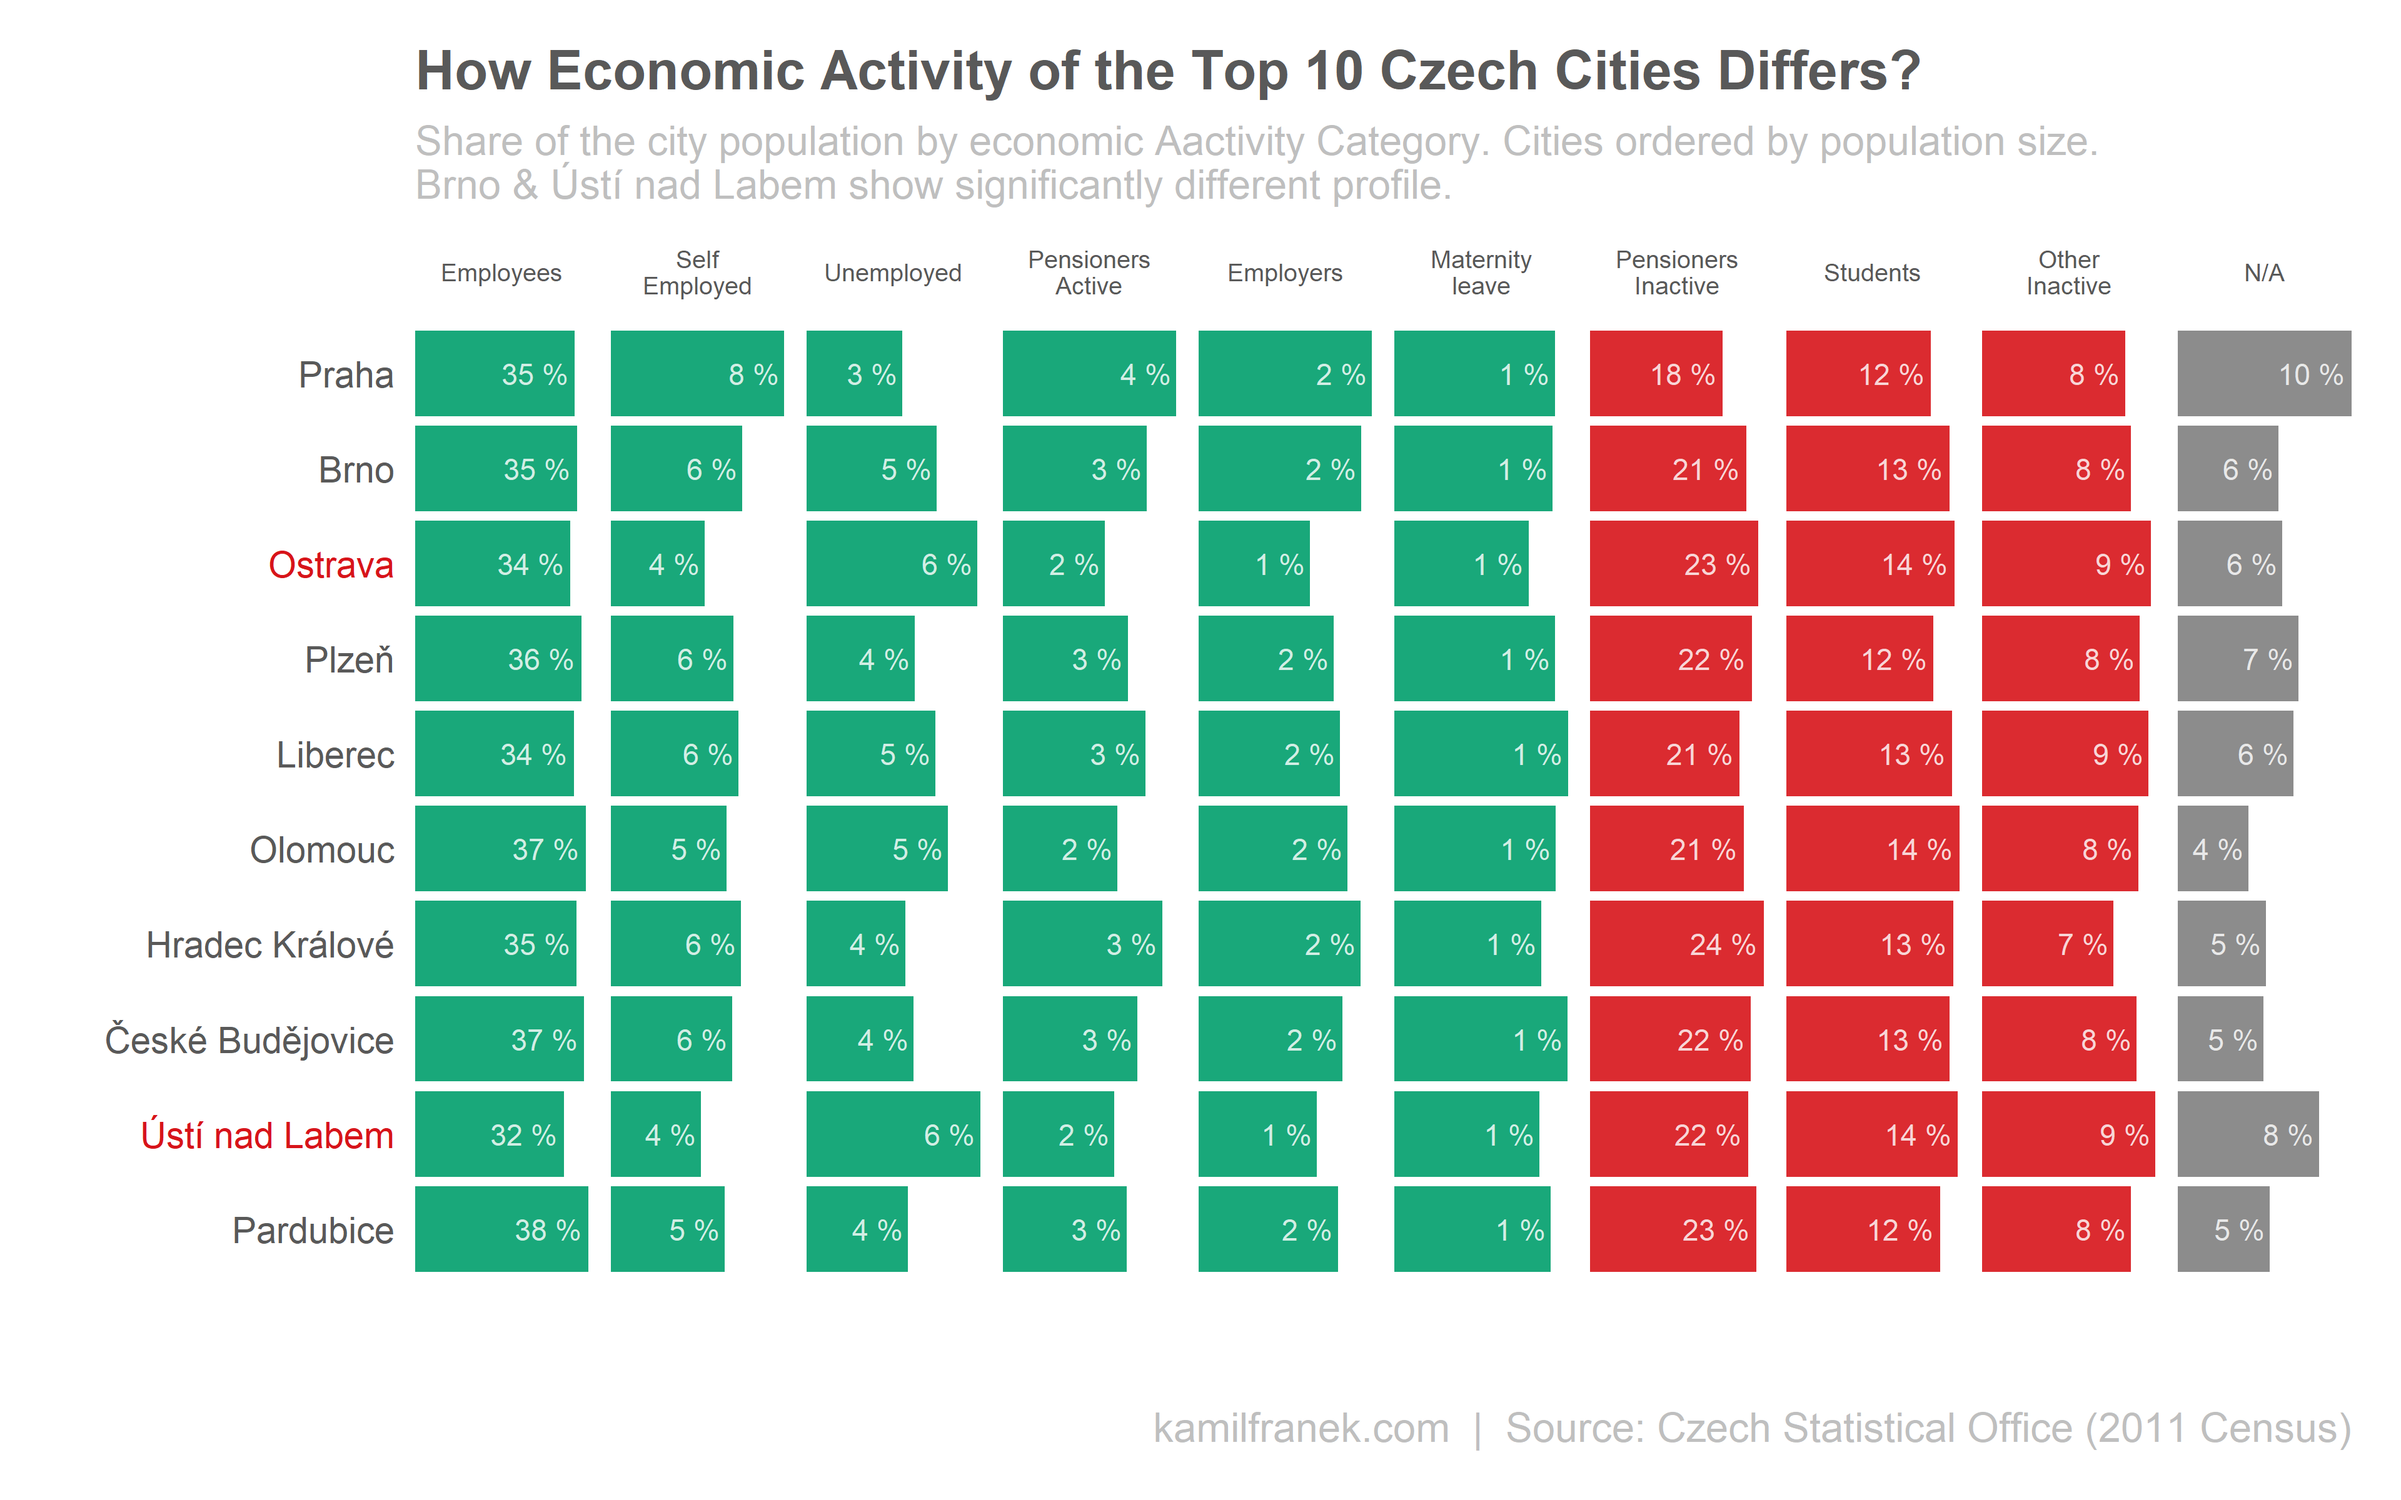
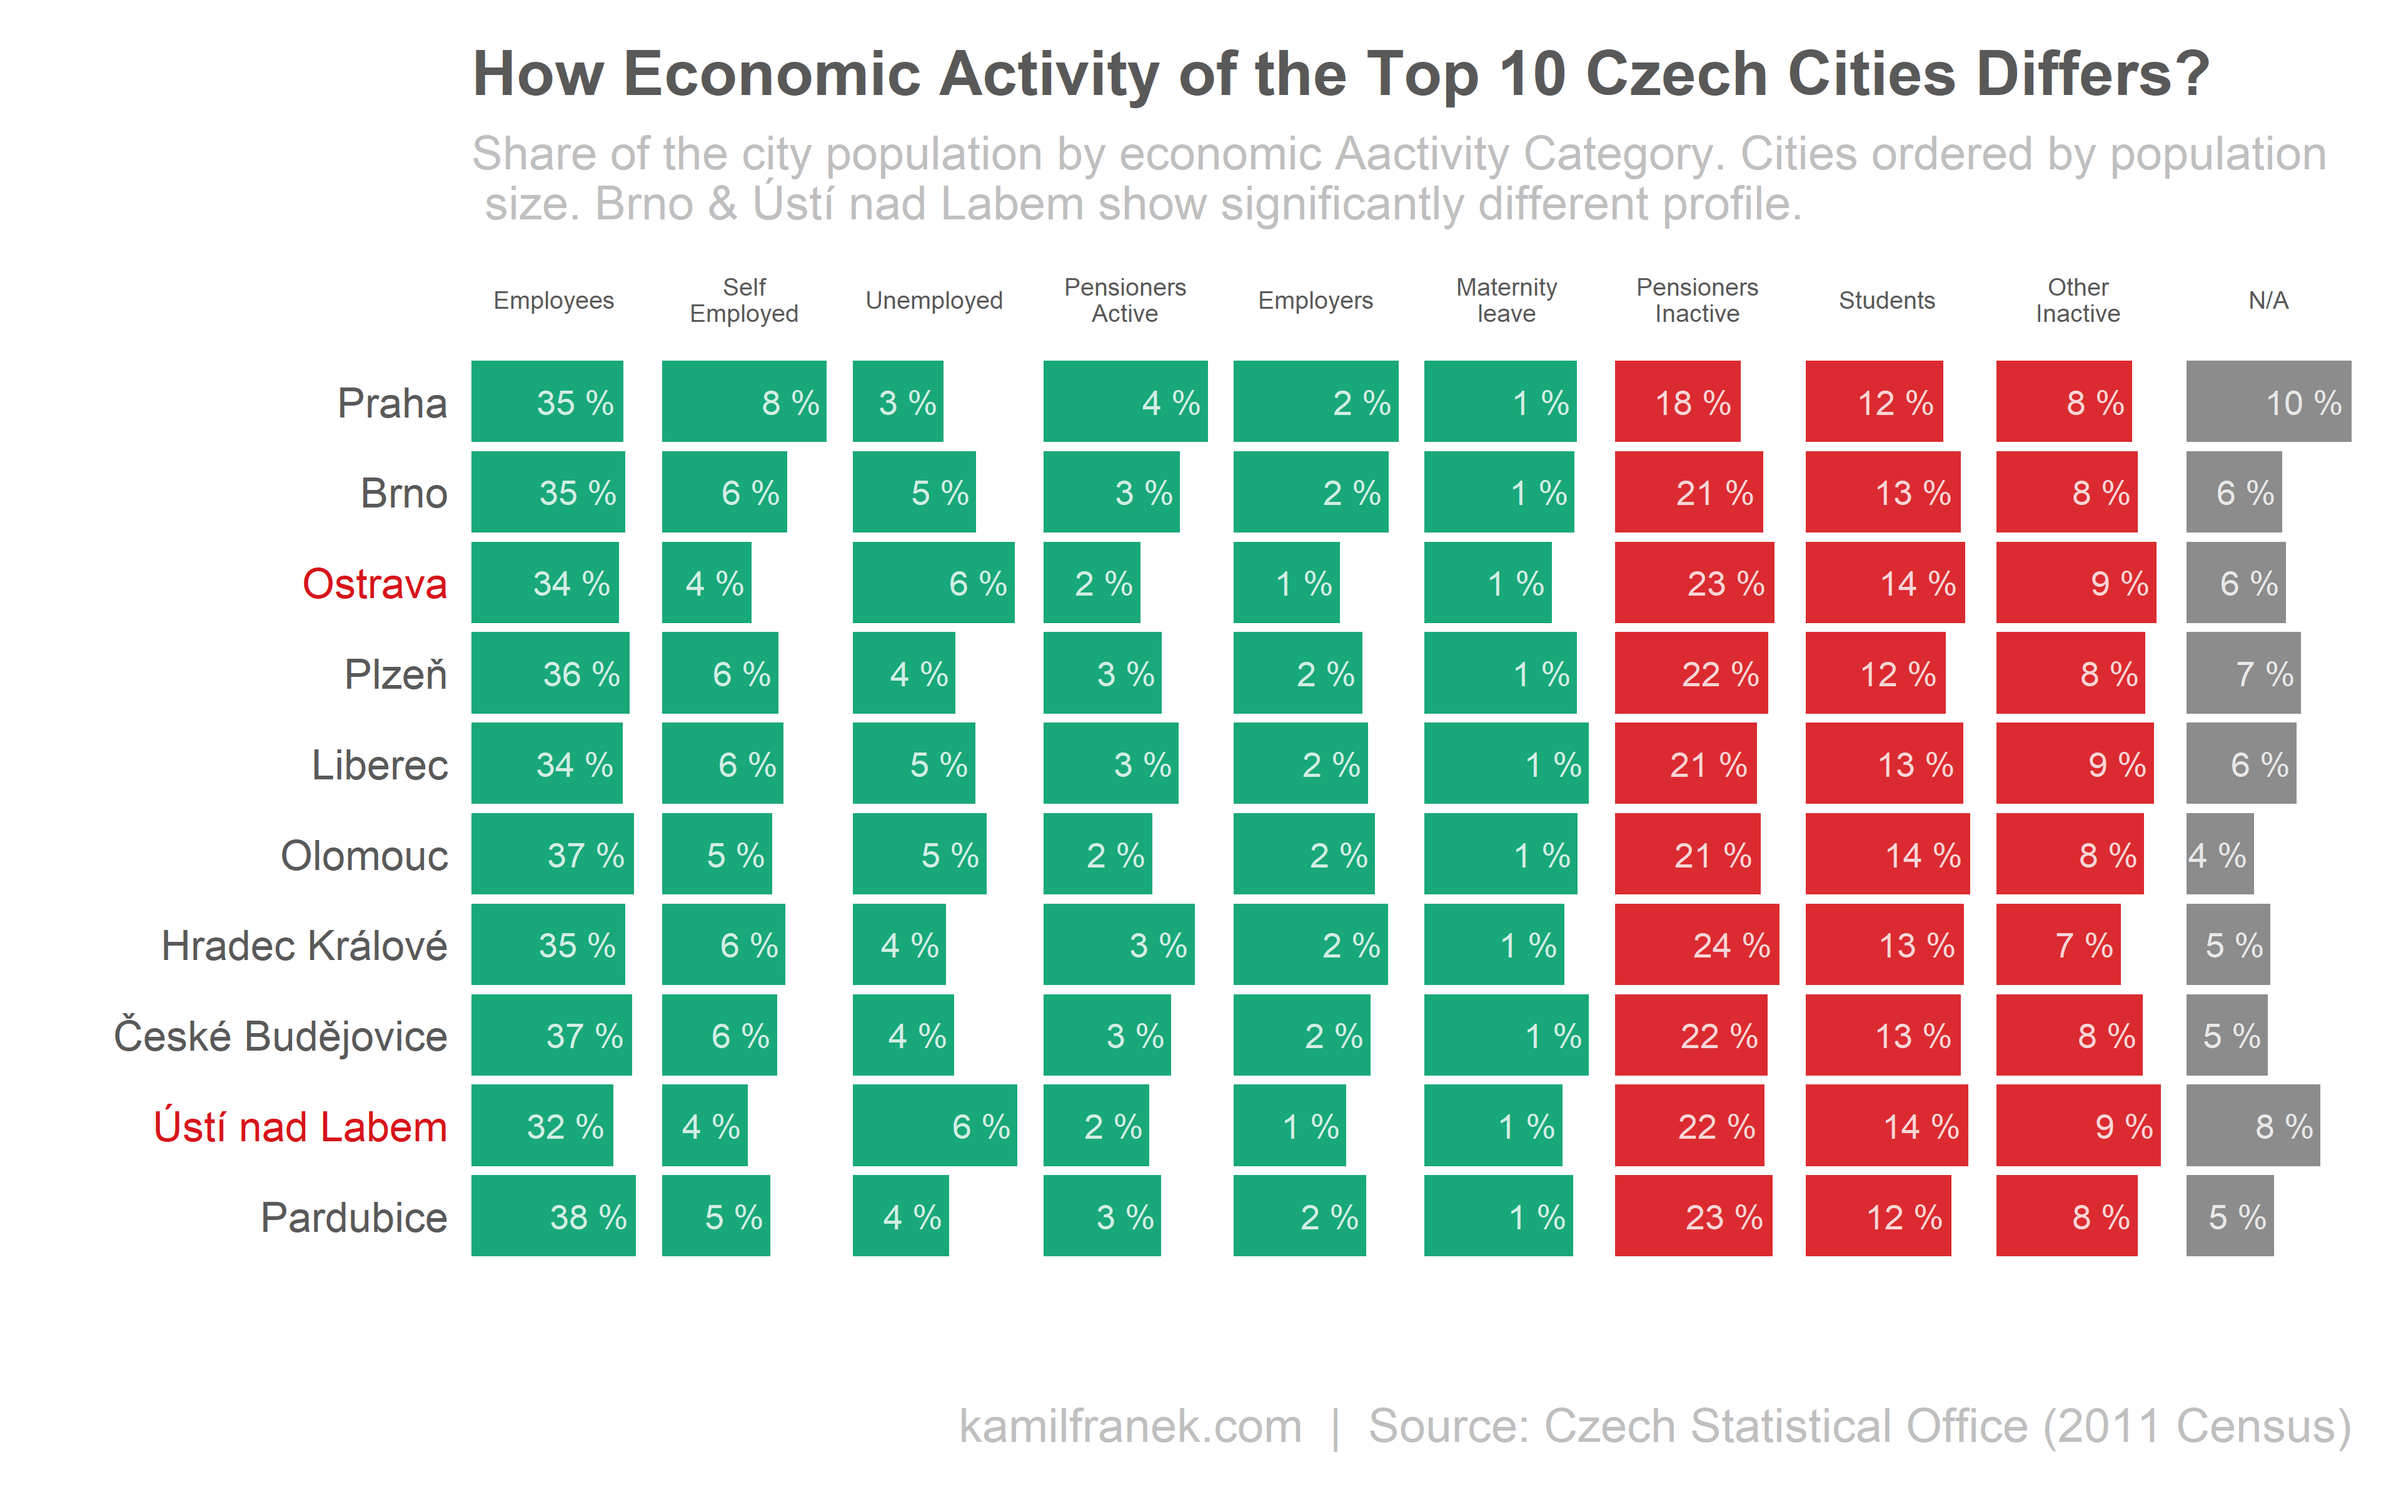
update of chart - bigger text

Changed region(s): [[0.0312, 0.0312, 1.0, 0.875], [0.4062, 0.9375, 0.9688, 0.9688], [0.75, 0.1562, 0.7812, 0.1875]]

diff --git a/_posts/2018-06-03-how-can-census-data-help-you-to-evaluate-business-potential.md b/_posts/2018-06-03-how-can-census-data-help-you-to-evaluate-business-potential.md
@@ -8,11 +8,11 @@ header:
  teaser: "assets/images/population_top10_activity.png"
  
 ---
-A few months ago I’ve put together a very basic overview of where people live in the Czech Republic in an article “Where do your Czech Customers live”. It was a short post with basic metrics and visualizations about what are the biggest Czech cities, where is the biggest population density and that Pareto 20/80 rule really works. However, I felt that I need to get back to this topic and try to go one step deeper. Suggesting that biggest businesses potential (at least for retail) is in the biggest cities by population appeared just too simplistic. Though it might be a good rule of thumb, a bigger city does not have to mean that you will have more customer potential there be because characteristics of the population will vary between cities. This is something I want to explore in this post, using the Czech Republic census data.
+A few months ago I’ve put together a very basic overview of where people live in the Czech Republic in an article <a href="http://www.kamilfranek.com/where-do-your-czech-customers-live/">“Where do your Czech Customers live”<a>. It was a short post with basic metrics and visualizations about what are the biggest Czech cities, where is the biggest population density and that Pareto 20/80 rule really works. However, I felt that I need to get back to this topic and try to go one step deeper. Suggesting that biggest businesses potential (at least for retail) is in the biggest cities by population appeared just too simplistic. Though it might be a good rule of thumb, a bigger city does not have to mean that you will have more customer potential there. Simply because characteristics of the population will vary between cities. This is something I want to explore in this post, using the Czech Republic census data.
 
 ## City population is not enough to evaluate city business potential. Or is it?
 
-If I want to answer the question “Which city should I open my next store in?” or “From which territory should I expect more sales?” more properly than just looking at the population level, you would ideally want actual market sales data for your particular product/service in a given city. Unfortunately, that’s not always the option. There are many other data options we can incorporate as a proxy. We might look at economic activity, purchasing power, age structure, education, your competition presence, weather etc.
+If I want to answer the question “Which city should I open my next store in?” or “From which territory should I expect more sales?” more properly than just looking at the population level, you would ideally want actual market sales data for your product/service in a given city. Unfortunately, that’s not always the option. There are many other data options we can incorporate as a proxy. We might look at economic activity, purchasing power, age structure, education, your competition presence, weather etc.
 
 I want to go deeper than before, but I will limit the scope of this post only to a subset of few important characteristics that are included in publicly available Czech census data..
 
@@ -74,7 +74,7 @@ So we got an overview of Czech Republic demographic characteristic and we can no
     <figcaption></figcaption>
 </figure>
 
-With the exception of a higher share of unemployed in Ústi, it looks like our original simplified advice that more people mean more customers was roughly right. But be careful that this cant’be generalized and we looked only top 10 cities. The Czech Republic is also extremely small and homogenous country so this might be relevant somewhere else.
+With the exception of a higher share of unemployed in Ústí nad Labem, it looks like our original simplified advice that more people mean more customers was roughly right. But be careful that this cant’be generalized and we looked only top 10 cities. The Czech Republic is also extremely small and homogenous country so this might be relevant somewhere else.
 
 Let’s look at the same data differently as % of the total populations, because chart above might be hiding some structural differences between cities.
 
@@ -83,7 +83,7 @@ Let’s look at the same data differently as % of the total populations, because
     <figcaption></figcaption>
 </figure>
 
-In the chart above you can see that it is not only Usti nad Labem that stands out but also Ostrava. Both of these cities have a significantly higher share of employed people offset by lower share of the self-employed and employed population. The rest look roughly homogenous except the capital Praha, with a high share of self-employed and lower unemployment.
+In the chart above you can see that it is not only Ustí nad Labem that stands out but also Ostrava. Both of these cities have a significantly higher share of unemployed people offset by lower share of the self-employed and employed population. The rest looks roughly homogenous except the capital Praha, with a high share of self-employed and lower unemployment.
 
 Detail split by age structure below is pretty similar across cities, but if you focus on Ústi and Ostrava again you can spot slightly higher share of young people below 19-year-old. This is strongly connected to a higher share of unemployment we showed before. A segment of young people below 19 years usually has quite higher unemployment rate than is the population average.
 
@@ -99,11 +99,11 @@ The final demographic characteristic we will explore for top 10 Czech cities is 
     <figcaption></figcaption>
 </figure>
 
-To sum it up, we confirmed that although the rule of thumb that “business potential = population” works most of the time, it is important too look also at some more detail city characteristics to avoid wrong decisions. When we looked at relative share for top cities we found two of them (Ostrava/Ústí) have a quite lower share of the active population. We confirmed that these cities have also younger population and also with a lower level of formal education. All these characteristics are characteristics generally connected with higher unemployment.
+To sum it up, we confirmed that although the rule of thumb that “business potential = population size” works most of the time, it is important too look also at some more detail city characteristics to avoid wrong decisions. When we looked at relative share for top cities we found two of them (Ostrava/Ústí) have a quite lower share of the active population. We confirmed that these cities have also younger population and also with a lower level of formal education. All these characteristics are characteristics generally connected with higher unemployment.
 
 Does it mean that you should avoid these two cities and prefer a city with the lower population and with a higher share of an economically active population? For Ostrava, the answer is no, because size difference to 4th Plzen is so large that differences in the population structure won’t outweigh it. In case of Ústí, if we would look only at self-employed or employed segment as important for our business you would probably do better by prioritizing smaller Pardubice. Difference between the population of Pardubice and Ústi is small, therefore relative differences make up for it.
 
-It is important to say, that it all depends on who are your customers and in which city you have most of them. Demographic might give you rough guidance in this. More niche your business or customers are, more important will detailed customer structure in given city will be important for your business.
+>It is important to say, that it all depends on who are your customers and in which city you have most of them. Demographic might give you rough guidance in this. More niche your business or customers are, more important will detailed customer structure in given city will be important for your business.
 
 What if your business is online, you might think, do I care about the geographical distribution of my customers? You don’t, but the underlying logic is similar. You don’t care about a number of teenagers in different geographical locations, but you care about a number of teenagers across different online territories, eg. how much teenagers are active on Facebook vs Snapchat.
 
@@ -112,7 +112,7 @@ What if your business is online, you might think, do I care about the geographic
 
 So far I concentrated only at few top cities but top cities have different demographics that the rest of the Czech Republic. It is true that 25% of the Czechia population live in the top 10 cities, but most of the population still live outside of the top 10.
 
-If we want to look visually on the whole Cechia by a city, it is where the granularity of census data really shines and allows you to have really detail picture by a city. We do not need to rely on less granular data by regions, which might hide some local differences.
+If we want to look visually on the whole Czechia by a city, it is where the granularity of census data really shines and allows you to have really detail picture by a city. We do not need to rely on less granular data by regions, which might hide some local differences.
 
 Two “twins” heat maps below are inverse to each other and are showing the self-employed share of the population versus share of the unemployed population.
 
@@ -121,7 +121,7 @@ Two “twins” heat maps below are inverse to each other and are showing the se
     <figcaption></figcaption>
 </figure>
 
-Heatmap above is messy and the smaller the area more common it is to see some extremely low and high value. This is a quite normal phenomenon because by chance it is much more probable to achieve extremes shares of unemployment in smaller cities than in bigger one. Similarly, if you toss a coin ten times you have bigger change to achieve a higher share of heads compared to the situation when you would toss a coin 10 000 times where it is quite unusual (with fair coin) to differ too much from 50%.
+Heatmap above give general overview. Be carefull that the smaller the area, the more common it is to see some extremely low and high values. This is a quite normal phenomenon because by chance it is much more probable to achieve extremes shares of unemployment in smaller cities than in bigger one. Similarly, if you toss a coin ten times you have bigger change to achieve a higher share of heads compared to the situation when you would toss a coin 10 000 times where it is quite unusual (with fair coin) to differ too much from 50%.
 
 Below is similar heat map “twin” map visualization comparing the share of people with basic vs university education. Bigger cities clearly stand out with two exceptions (Ostrava + Ustí nad Labem).
 
@@ -130,7 +130,7 @@ Below is similar heat map “twin” map visualization comparing the share of pe
     <figcaption></figcaption>
 </figure>
 
-<sub>**References:**</sub>
+<sub>**References:**</sub>\
 <sub>
 Czech Statistical Office (2011). *Selected data from 2011 Czech Republic Census (26. 3. 2011).*[ https://www.czso.cz/csu/czso/otevrena_data_pro_vysledky_scitani_lidu_domu_a_bytu_2011_sldb_2011.](https://www.czso.cz/csu/czso/otevrena_data_pro_vysledky_scitani_lidu_domu_a_bytu_2011_sldb_2011)
 </sub>
